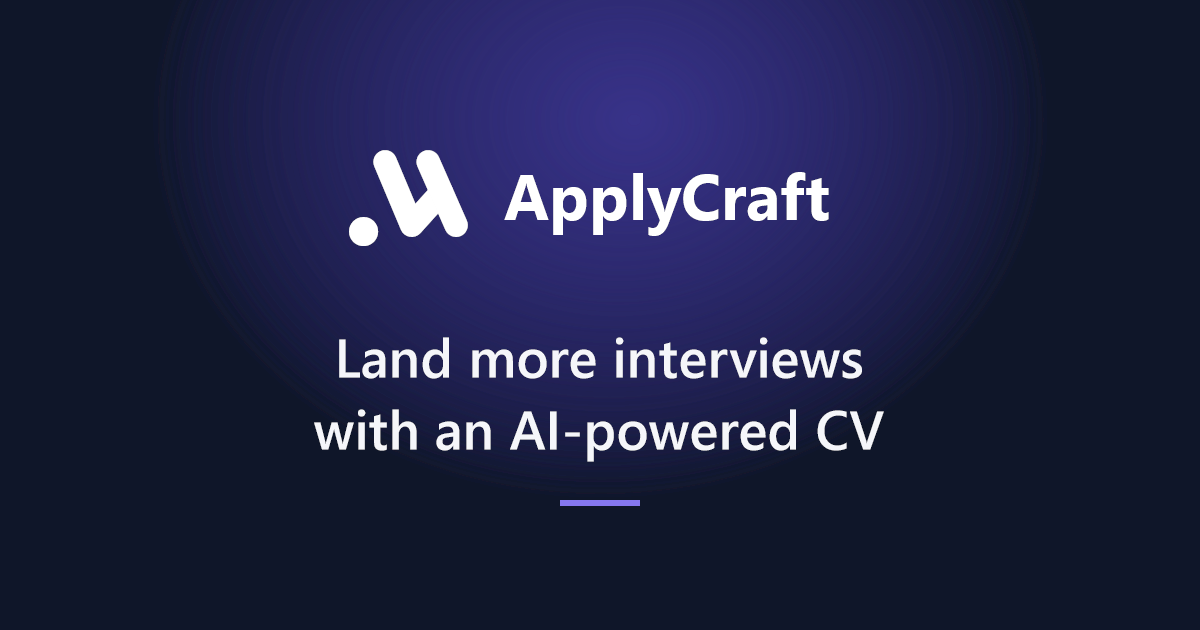
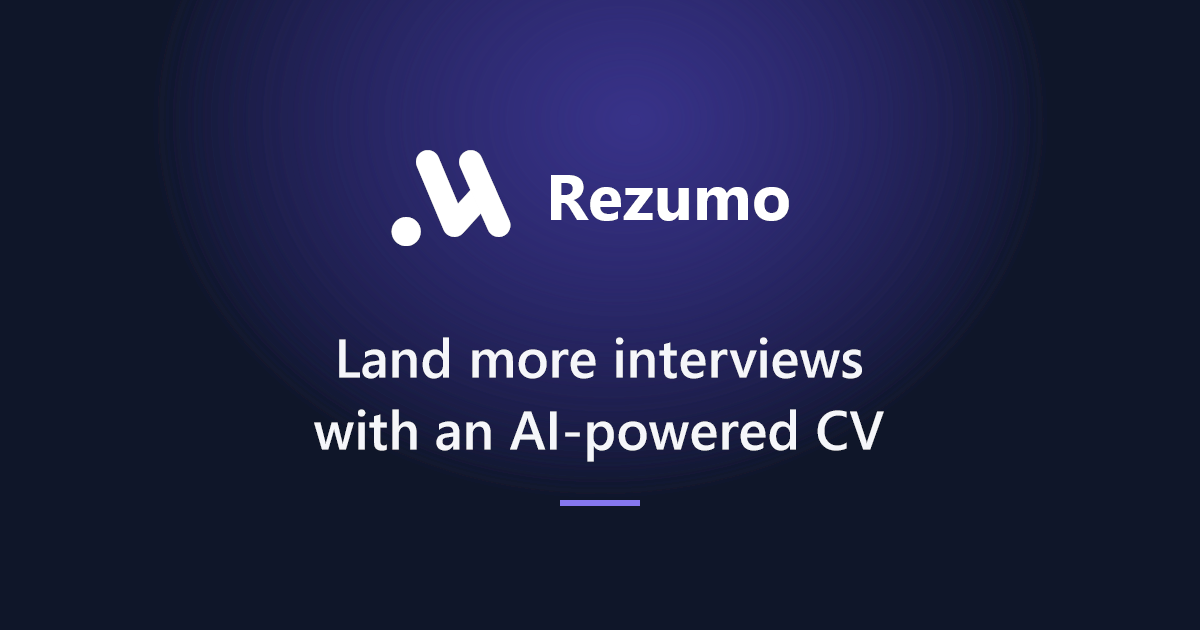
chore: rename app to rezumo

Changed region(s): [[0.2775, 0.2413, 0.7092, 0.3921]]

diff --git a/frontend/src/app/app.routes.ts b/frontend/src/app/app.routes.ts
@@ -5,27 +5,27 @@ import { authGuard, guestGuard } from './auth.guard';
 import { TEMPLATES_HREF, templateById } from './cv-templates';
 import { itemBySlug } from './menu-config';
 
-export const SITE_TITLE = 'ApplyCraft — Your application workspace';
+export const SITE_TITLE = 'Rezumo — Your application workspace';
 
 const comingSoonTitle: ResolveFn<string> = (route) =>
-  `${itemBySlug(route.paramMap.get('slug') ?? '')?.title ?? 'Coming soon'} — ApplyCraft`;
+  `${itemBySlug(route.paramMap.get('slug') ?? '')?.title ?? 'Coming soon'} — Rezumo`;
 
 export const routes: Routes = [
   { path: '', title: SITE_TITLE, loadComponent: () => import('./home-page').then((m) => m.HomePage) },
   {
     path: 'check',
-    title: 'CV Checker — ApplyCraft',
+    title: 'CV Checker — Rezumo',
     canActivate: [authGuard],
     loadComponent: () => import('./cv-check-page').then((m) => m.CvCheckPage),
   },
   {
     path: 'pricing',
-    title: 'Pricing — ApplyCraft',
+    title: 'Pricing — Rezumo',
     loadComponent: () => import('./pricing-page').then((m) => m.PricingPage),
   },
   {
     path: 'templates',
-    title: 'ATS-friendly CV templates — ApplyCraft',
+    title: 'ATS-friendly CV templates — Rezumo',
     loadComponent: () => import('./templates-page').then((m) => m.TemplatesPage),
   },
   // The old detail pages: /templates/modern → /templates#modern (unknown names → /templates).
@@ -38,18 +38,18 @@ export const routes: Routes = [
   },
   {
     path: 'examples',
-    title: 'CV examples — ApplyCraft',
+    title: 'CV examples — Rezumo',
     loadComponent: () => import('./examples-page').then((m) => m.ExamplesPage),
   },
   {
     path: 'examples/cover-letters',
-    title: 'Cover Letter Examples — ApplyCraft',
+    title: 'Cover Letter Examples — Rezumo',
     data: { soonTitle: 'Cover Letter Examples', soonDescription: 'Effective cover letter samples' },
     loadComponent: () => import('./coming-soon').then((m) => m.ComingSoon),
   },
   {
     path: 'tools',
-    title: 'All tools — ApplyCraft',
+    title: 'All tools — Rezumo',
     loadComponent: () => import('./tools-page').then((m) => m.ToolsPage),
   },
   {
@@ -59,25 +59,25 @@ export const routes: Routes = [
   },
   {
     path: 'login',
-    title: 'Log in — ApplyCraft',
+    title: 'Log in — Rezumo',
     canActivate: [guestGuard],
     loadComponent: () => import('./login-page').then((m) => m.LoginPage),
   },
   {
     path: 'signup',
-    title: 'Create your account — ApplyCraft',
+    title: 'Create your account — Rezumo',
     canActivate: [guestGuard],
     loadComponent: () => import('./signup-page').then((m) => m.SignupPage),
   },
   {
     path: 'reset-password',
-    title: 'Reset your password — ApplyCraft',
+    title: 'Reset your password — Rezumo',
     loadComponent: () => import('./reset-password-page').then((m) => m.ResetPasswordPage),
   },
   // Legal pages, in English and German (?lang=de); the texts live in public/legal/*.{en,de}.md.
   {
     path: 'imprint',
-    title: 'Imprint (Impressum) — ApplyCraft',
+    title: 'Imprint (Impressum) — Rezumo',
     data: { legalDoc: 'imprint', title: 'Imprint (Impressum)' },
     loadComponent: () => import('./legal-page').then((m) => m.LegalPage),
   },
@@ -102,13 +102,13 @@ export const routes: Routes = [
    */
   {
     path: 'privacy',
-    title: 'Privacy Policy (Datenschutzerklärung) — ApplyCraft',
+    title: 'Privacy Policy (Datenschutzerklärung) — Rezumo',
     data: { legalDoc: 'privacy', title: 'Privacy Policy (Datenschutzerklärung)' },
     loadComponent: () => import('./legal-page').then((m) => m.LegalPage),
   },
   {
     path: 'terms',
-    title: 'Terms of Service (AGB) — ApplyCraft',
+    title: 'Terms of Service (AGB) — Rezumo',
     data: { legalDoc: 'terms', title: 'Terms of Service (AGB)' },
     loadComponent: () => import('./legal-page').then((m) => m.LegalPage),
   },
@@ -118,27 +118,27 @@ export const routes: Routes = [
   { path: 'agb', redirectTo: '/terms?lang=de' },
   {
     path: 'dashboard',
-    title: 'Dashboard — ApplyCraft',
+    title: 'Dashboard — Rezumo',
     canActivate: [authGuard],
     loadComponent: () => import('./dashboard-page').then((m) => m.DashboardPage),
   },
   {
     // The top bar's "Cover letters" tab; the tool isn't built yet.
     path: 'cover-letters',
-    title: 'Cover letters — ApplyCraft',
+    title: 'Cover letters — Rezumo',
     canActivate: [authGuard],
     data: { slug: 'cover-letter-generator' },
     loadComponent: () => import('./coming-soon').then((m) => m.ComingSoon),
   },
   {
     path: 'settings',
-    title: 'Settings — ApplyCraft',
+    title: 'Settings — Rezumo',
     canActivate: [authGuard],
     loadComponent: () => import('./settings-page').then((m) => m.SettingsPage),
   },
   {
     path: 'admin',
-    title: 'Admin — ApplyCraft',
+    title: 'Admin — Rezumo',
     canActivate: [adminGuard],
     loadComponent: () => import('./admin-page').then((m) => m.AdminPage),
   },

diff --git a/frontend/src/index.html b/frontend/src/index.html
@@ -2,7 +2,7 @@
 <html lang="en">
 <head>
   <meta charset="utf-8">
-  <title>ApplyCraft — Your application workspace</title>
+  <title>Rezumo — Your application workspace</title>
   <base href="/">
   <meta name="viewport" content="width=device-width, initial-scale=1">
   <meta name="description" content="Land more interviews with an AI-powered CV. Get your ATS score, fix weak points with AI and tailor your CV to every job.">
@@ -18,15 +18,15 @@
   <!-- TODO(domain): X and LinkedIn need absolute URLs; once the site has its domain, change
        og:image / twitter:image to https://<domain>/og-image.png and add og:url. -->
   <meta property="og:type" content="website">
-  <meta property="og:site_name" content="ApplyCraft">
-  <meta property="og:title" content="ApplyCraft — Land more interviews with an AI-powered CV">
+  <meta property="og:site_name" content="Rezumo">
+  <meta property="og:title" content="Rezumo — Land more interviews with an AI-powered CV">
   <meta property="og:description" content="Get your ATS score, fix weak points with AI and tailor your CV to every job.">
   <meta property="og:image" content="/og-image.png">
   <meta property="og:image:width" content="1200">
   <meta property="og:image:height" content="630">
-  <meta property="og:image:alt" content="ApplyCraft logo and the tagline: Land more interviews with an AI-powered CV">
+  <meta property="og:image:alt" content="Rezumo logo and the tagline: Land more interviews with an AI-powered CV">
   <meta name="twitter:card" content="summary_large_image">
-  <meta name="twitter:title" content="ApplyCraft — Land more interviews with an AI-powered CV">
+  <meta name="twitter:title" content="Rezumo — Land more interviews with an AI-powered CV">
   <meta name="twitter:description" content="Get your ATS score, fix weak points with AI and tailor your CV to every job.">
   <meta name="twitter:image" content="/og-image.png">
 </head>

diff --git a/frontend/src/app/pricing-config.ts b/frontend/src/app/pricing-config.ts
@@ -125,12 +125,12 @@ export const FAQ: readonly FaqItem[] = [
     // long Anthropic retains API inputs and the region of the Supabase project.
     question: 'Is my data safe?',
     answer:
-      'We are building ApplyCraft to follow the GDPR (DSGVO). When you check your CV, it is sent over an encrypted connection to our server to read the text, and to our AI provider (Anthropic) for the analysis. Without an account, your CV is never stored: your progress stays in your browser on this device. If you save CVs to your account, they are stored securely in the EU and you can delete them, or your whole account, anytime in Settings. We never sell your data.',
+      'We are building Rezumo to follow the GDPR (DSGVO). When you check your CV, it is sent over an encrypted connection to our server to read the text, and to our AI provider (Anthropic) for the analysis. Without an account, your CV is never stored: your progress stays in your browser on this device. If you save CVs to your account, they are stored securely in the EU and you can delete them, or your whole account, anytime in Settings. We never sell your data.',
   },
   {
     question: 'Will my CV pass ATS systems?',
     answer:
-      'No tool can guarantee that, because every company configures its ATS differently. ApplyCraft helps you avoid the common problems, like layouts the ATS cannot read and missing keywords from the job description, so your CV has a much better chance.',
+      'No tool can guarantee that, because every company configures its ATS differently. Rezumo helps you avoid the common problems, like layouts the ATS cannot read and missing keywords from the job description, so your CV has a much better chance.',
   },
   {
     question: "What's the difference between Pro and Lifetime?",

diff --git a/frontend/src/app/cv-flow.spec.ts b/frontend/src/app/cv-flow.spec.ts
@@ -128,7 +128,7 @@ describe('CvFlow', () => {
     flow.score.set(SCORE);
     flow.setText(CV + '\nEdited');
     TestBed.tick();
-    expect(JSON.parse(localStorage.getItem('applycraft.cv-check.v1')!).cvText).toContain('Edited');
+    expect(JSON.parse(localStorage.getItem('rezumo.cv-check.v1')!).cvText).toContain('Edited');
 
     // A fresh app instance is what a page refresh gives us.
     TestBed.resetTestingModule();
@@ -145,12 +145,12 @@ describe('CvFlow', () => {
     reloaded.jobDescription.set('Old job');
     reloaded.reset();
     TestBed.tick();
-    expect(localStorage.getItem('applycraft.cv-check.v1')).toBeNull();
+    expect(localStorage.getItem('rezumo.cv-check.v1')).toBeNull();
     expect(reloaded.jobDescription()).toBe(''); // a new check never reuses an old job description
   });
 
   it('ignores corrupt saved data', () => {
-    localStorage.setItem('applycraft.cv-check.v1', '{"cvText": 5');
+    localStorage.setItem('rezumo.cv-check.v1', '{"cvText": 5');
     TestBed.resetTestingModule();
     TestBed.configureTestingModule({
       providers: [provideHttpClient(), provideHttpClientTesting()],

diff --git a/frontend/src/app/cv-flow.ts b/frontend/src/app/cv-flow.ts
@@ -50,7 +50,7 @@ export type FlowPhase = 'input' | 'reading' | 'scoring' | 'results';
 
 export const MAX_FILE_BYTES = 5 * 1024 * 1024;
 
-const STORAGE_KEY = 'applycraft.cv-check.v1';
+const STORAGE_KEY = 'rezumo.cv-check.v1';
 
 /** What survives a page refresh. */
 interface SavedFlow {
@@ -65,7 +65,7 @@ interface SavedFlow {
 }
 
 /** The template last picked on this device (e.g. on /templates before signing up). */
-const TEMPLATE_KEY = 'applycraft.cv-template.v1';
+const TEMPLATE_KEY = 'rezumo.cv-template.v1';
 
 function preferredTemplate(): CvTemplateId {
   try {

diff --git a/frontend/src/app/demo-window.ts b/frontend/src/app/demo-window.ts
@@ -165,7 +165,7 @@ const clamp = (v: number) => Math.min(1, Math.max(0, v));
 const easeOut = (v: number) => 1 - (1 - v) ** 3;
 const easeInOut = (v: number) => (v < 0.5 ? 4 * v ** 3 : 1 - (-2 * v + 2) ** 3 / 2);
 
-/** Homepage "product demo window": a fake desktop app that cycles through what ApplyCraft does. */
+/** Homepage "product demo window": a fake desktop app that cycles through what Rezumo does. */
 @Component({
   selector: 'app-demo-window',
   imports: [DecimalPipe, Logo, NgTemplateOutlet, ScoreGauge, ScoreRing, SkillPill],

diff --git a/frontend/src/app/tools-page.ts b/frontend/src/app/tools-page.ts
@@ -9,7 +9,7 @@ import { MenuItem } from './menu-item';
   template: `
     <section class="tools" aria-labelledby="tools-title">
       <h1 id="tools-title">All tools</h1>
-      <p class="lede">Everything ApplyCraft offers for your CV and job search.</p>
+      <p class="lede">Everything Rezumo offers for your CV and job search.</p>
       @for (group of groups; track group.id) {
         <h2 [id]="'tools-' + group.id">{{ group.label }}</h2>
         <ul class="grid" role="list" [attr.aria-labelledby]="'tools-' + group.id">

diff --git a/frontend/src/app/logo.ts b/frontend/src/app/logo.ts
@@ -2,7 +2,7 @@ import { ChangeDetectionStrategy, Component, input } from '@angular/core';
 import { APP_NAME } from './brand';
 
 /**
- * The ApplyCraft mark (public/brand/logo-mark.svg), drawn inline so it takes its colour from a
+ * The Rezumo mark (public/brand/logo-mark.svg), drawn inline so it takes its colour from a
  * token: 'color' uses --primary-600 on light backgrounds, 'white' is for dark ones.
  * `size` is the mark's height in px; the name scales with it. Decorative: label the link around it.
  */

diff --git a/frontend/src/app/signup-page.ts b/frontend/src/app/signup-page.ts
@@ -15,7 +15,7 @@ export const MIN_PASSWORD = 8;
   template: `
     <app-auth-shell>
       <section aria-labelledby="signup-title">
-        <h1 id="signup-title">Create your ApplyCraft account</h1>
+        <h1 id="signup-title">Create your Rezumo account</h1>
         <p class="subtitle">Free forever. No credit card required.</p>
         @if (returnUrl()) {
           <p class="return-note" role="status">Create a free account to score your CV</p>

diff --git a/frontend/src/app/demo-window.html b/frontend/src/app/demo-window.html
@@ -13,7 +13,7 @@
   >
     <div class="titlebar">
       <span class="lights" aria-hidden="true"><i></i><i></i><i></i></span>
-      <div class="tabs" role="tablist" aria-label="ApplyCraft features" #tabBar (keydown)="onTabKey($event)">
+      <div class="tabs" role="tablist" aria-label="Rezumo features" #tabBar (keydown)="onTabKey($event)">
         @for (t of tabs; track t.id; let i = $index) {
           <button
             type="button"

diff --git a/frontend/src/app/showcase.ts b/frontend/src/app/showcase.ts
@@ -34,7 +34,7 @@ export const SHOWCASE_FEATURES: readonly ShowcaseFeature[] = [
     id: 'score',
     title: 'Score',
     lead: 'Know exactly where you stand.',
-    rest: "The ApplyCraft Score breaks down your CV section by section. No guessing what's weak. You see it, then fix it.",
+    rest: "The Rezumo Score breaks down your CV section by section. No guessing what's weak. You see it, then fix it.",
     href: CHECK_HREF,
   },
   {

diff --git a/frontend/src/app/site-footer.ts b/frontend/src/app/site-footer.ts
@@ -31,7 +31,7 @@ import { CHECK_HREF, TOOLS_HREF } from './menu-config';
           <a href="/imprint">Imprint</a><span aria-hidden="true">·</span><a href="/privacy">Privacy</a
           ><span aria-hidden="true">·</span><a href="/terms">Terms</a>
         </nav>
-        <p class="note">© {{ year }} ApplyCraft</p>
+        <p class="note">© {{ year }} Rezumo</p>
       </div>
     </footer>
   `,
